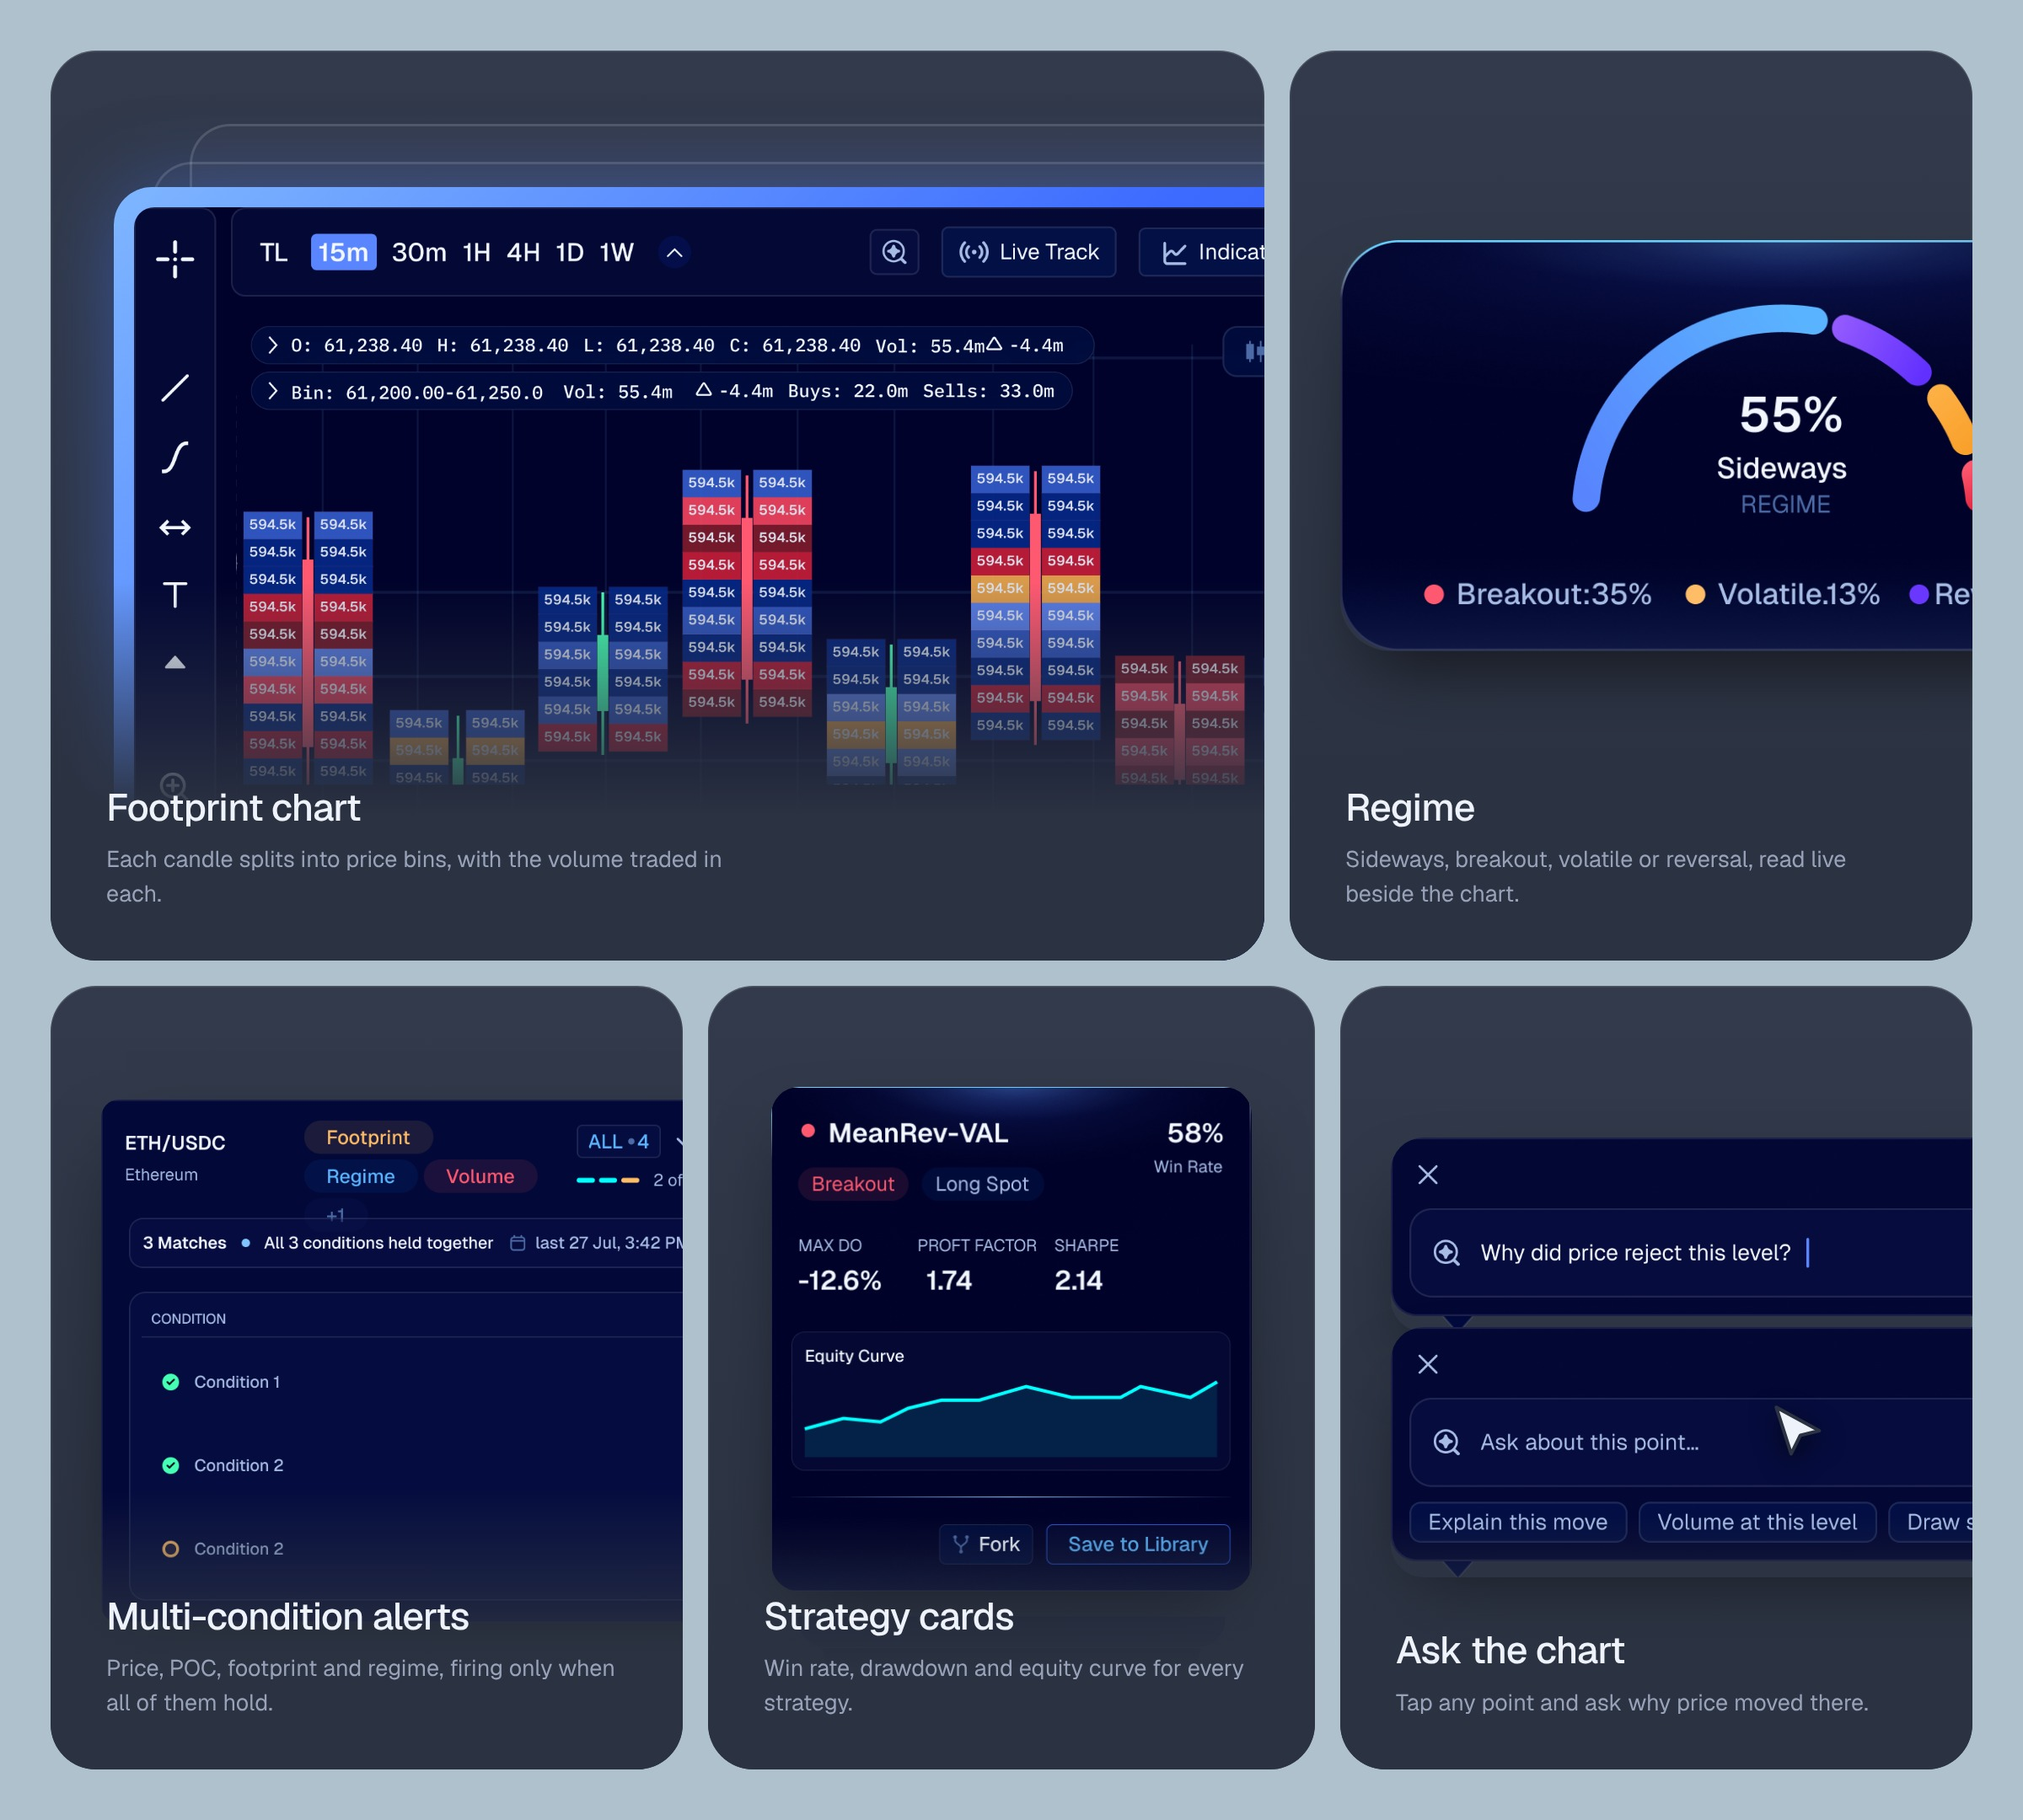
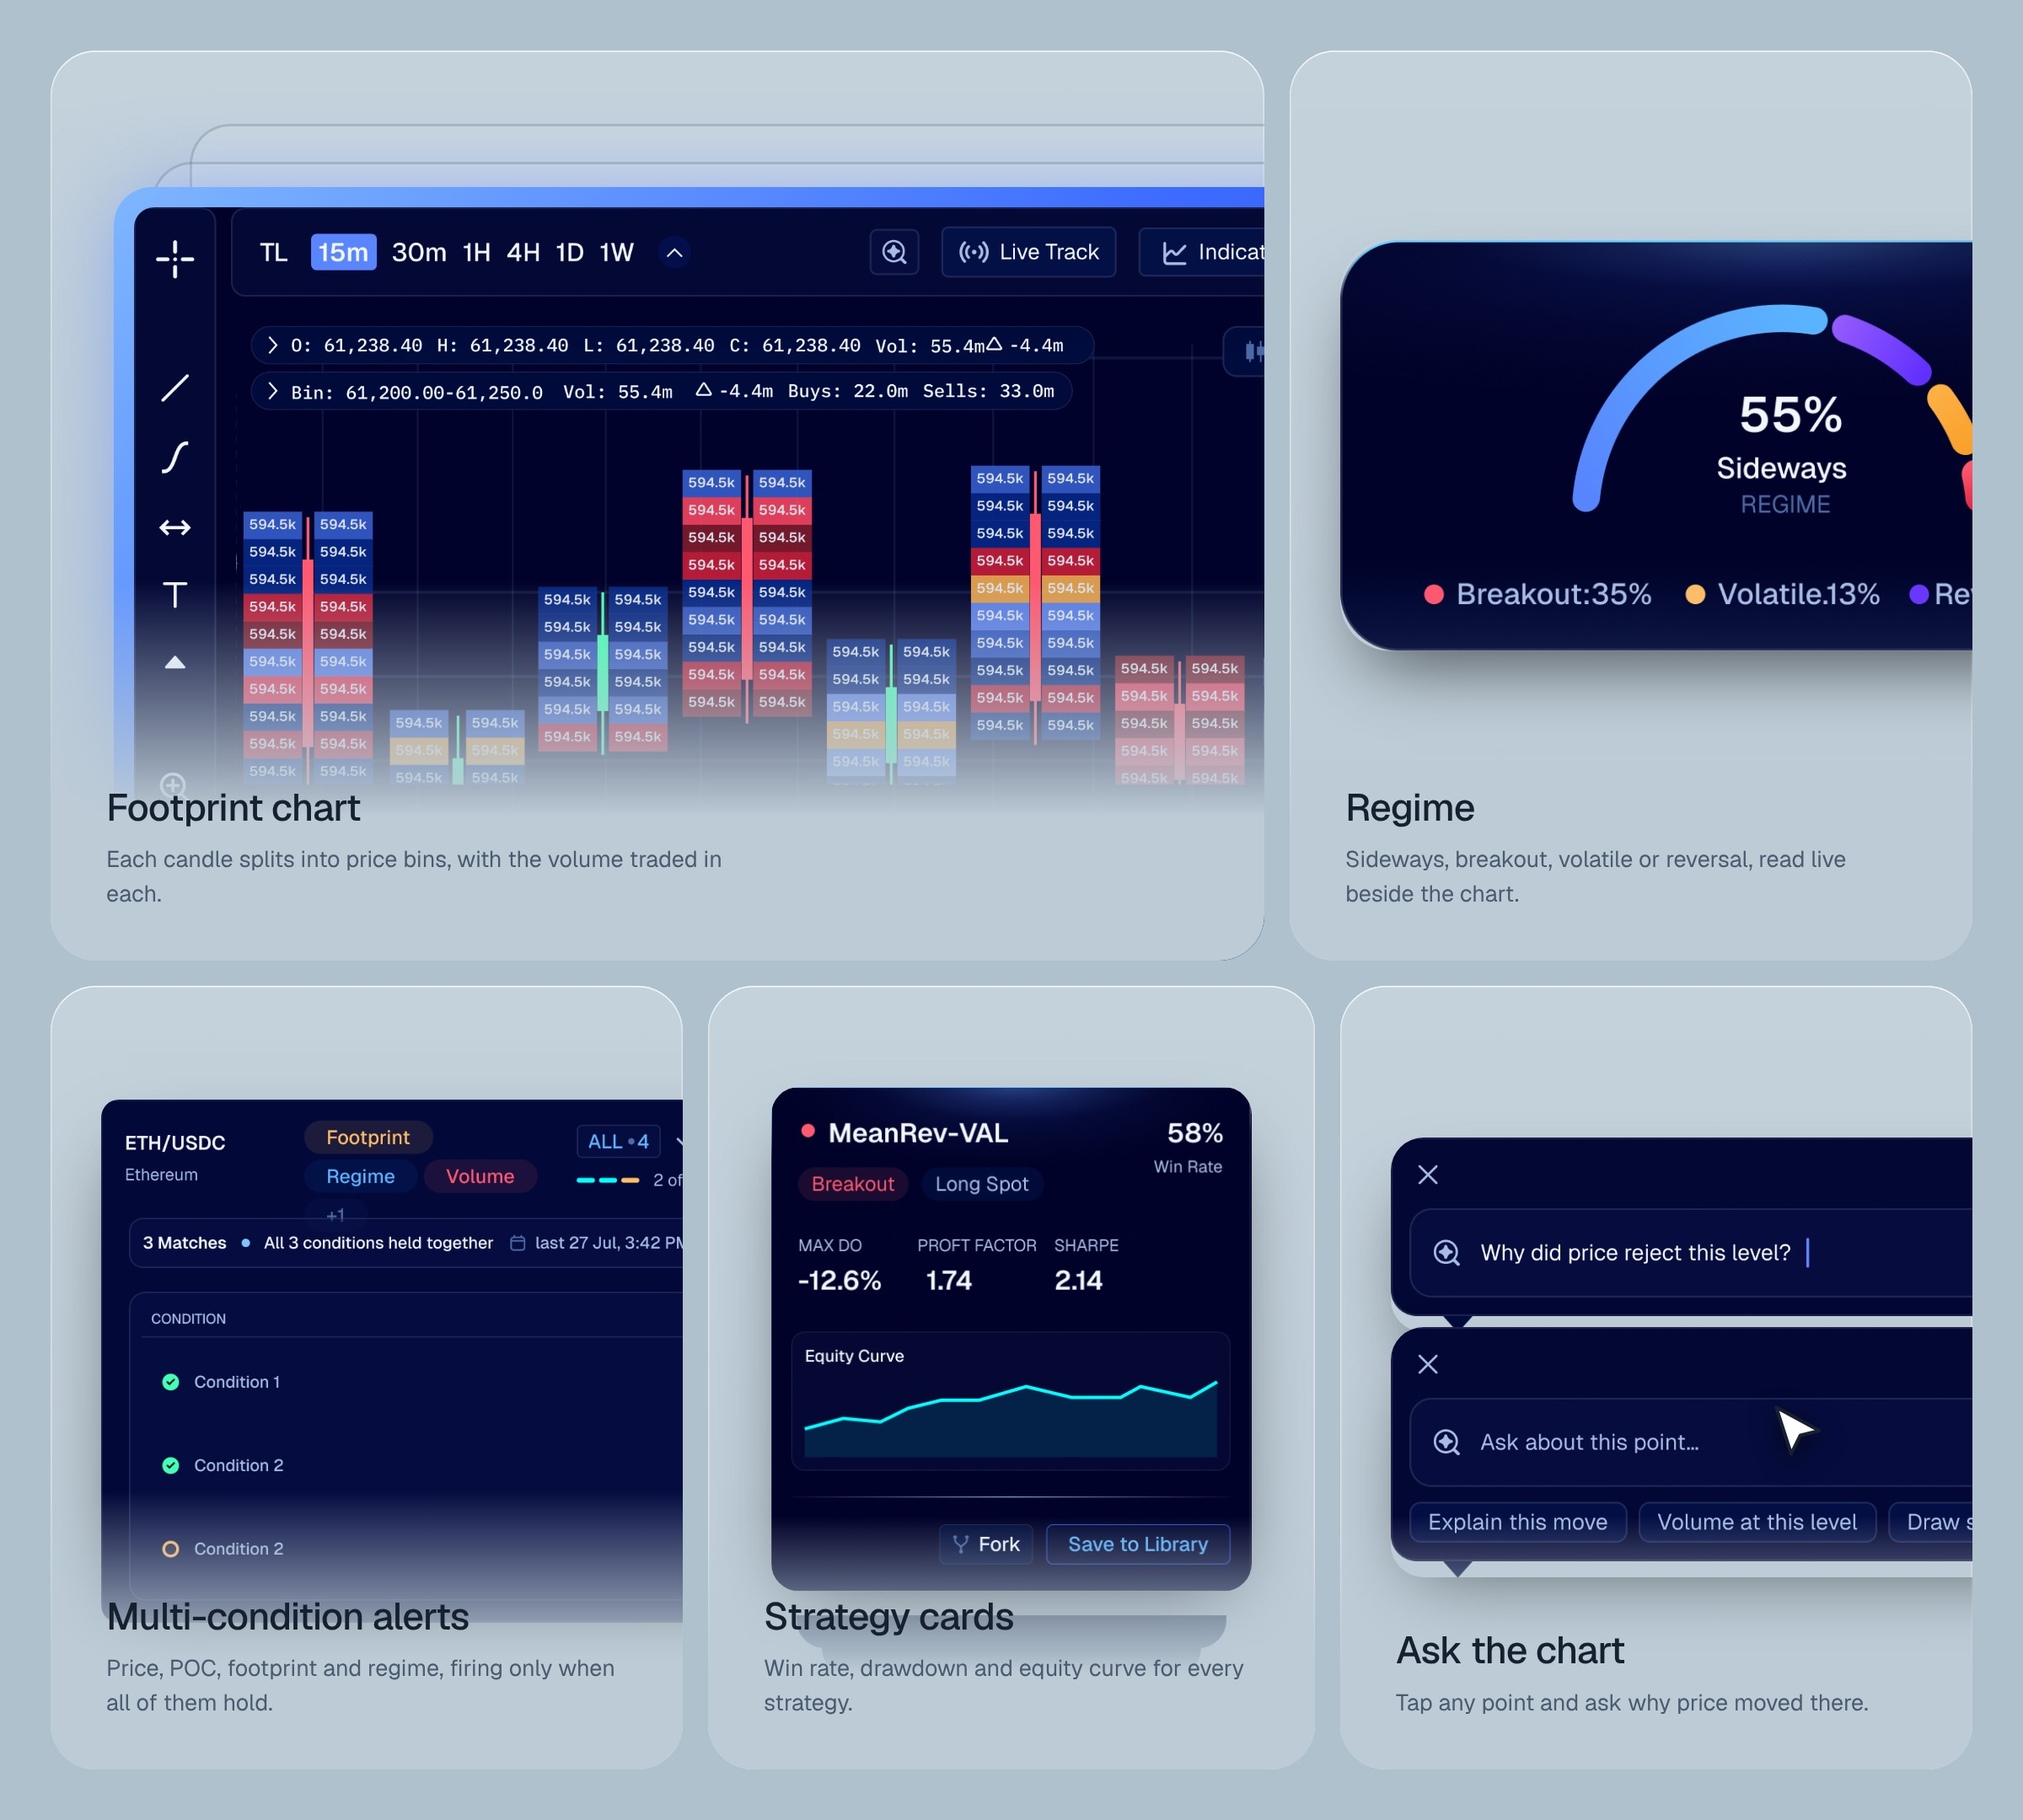
Jaadu bento: light bluish-grey cards with dark text
Claude-Session: https://claude.ai/code/session_01L48ecgvWMXiCwrAdC3aGTG

diff --git a/scripts/mockups/jaadu/bento.html b/scripts/mockups/jaadu/bento.html
@@ -4,19 +4,19 @@
 @font-face{font-family:Geist;font-weight:500;src:url(node_modules/@fontsource/geist/files/geist-latin-500-normal.woff2)}
 body{margin:0;background:#fff}
 .pg{position:relative;width:1600px;overflow:hidden;margin:0 0 60px;background:#B0C1CE;font-family:Geist,sans-serif}
-.t{position:absolute;overflow:hidden;border-radius:36px;background:linear-gradient(180deg,#323A4B,#2B3241);box-shadow:inset 0 0 0 1px rgba(255,255,255,.07),inset 0 1px 0 rgba(255,255,255,.08)}
+.t{position:absolute;overflow:hidden;border-radius:36px;background:linear-gradient(180deg,#C4D2DC,#BCCBD6);box-shadow:inset 0 0 0 1px rgba(255,255,255,.45),inset 0 1px 0 rgba(255,255,255,.7)}
 .t .cap{position:absolute;left:44px;right:44px;bottom:40px;z-index:4}
-.t .cap h3{margin:0;font:500 30px/1.15 Geist;color:#EEF2FA;letter-spacing:-.02em}
-.t .cap p{margin:10px 0 0;font:400 18px/1.5 Geist;color:#98A3BA;max-width:520px}
-.t .fade{position:absolute;left:0;right:0;bottom:0;z-index:3;background:linear-gradient(180deg,rgba(43,50,65,0),#2B3241 62%)}
+.t .cap h3{margin:0;font:500 30px/1.15 Geist;color:#16202F;letter-spacing:-.02em}
+.t .cap p{margin:10px 0 0;font:400 18px/1.5 Geist;color:#4B5A6E;max-width:520px}
+.t .fade{position:absolute;left:0;right:0;bottom:0;z-index:3;background:linear-gradient(180deg,rgba(188,203,214,0),#BCCBD6 62%)}
 .c{position:absolute;z-index:2;display:block;border-radius:18px;box-shadow:0 30px 60px -20px rgba(0,0,0,.6)}
 .glow{position:absolute;z-index:2;border-radius:30px;padding:16px;background:linear-gradient(135deg,#7FB6FF,#3D6BFF 40%,#2346C8);box-shadow:0 0 70px -10px rgba(70,120,255,.55)}
 .glow img{display:block;border-radius:16px}
-.ghost{position:absolute;z-index:1;border-radius:32px;border:2px solid rgba(255,255,255,.14);background:rgba(255,255,255,.02)}
+.ghost{position:absolute;z-index:1;border-radius:32px;border:2px solid rgba(22,32,47,.18);background:rgba(255,255,255,.12)}
 .wide .side{position:absolute;left:56px;top:0;bottom:0;width:440px;display:flex;flex-direction:column;justify-content:center}
-.wide .side h3{margin:0;font:500 44px/1.12 Geist;color:#EEF2FA;letter-spacing:-.025em}
-.wide .side p{margin:20px 0 0;font:400 20px/1.55 Geist;color:#98A3BA}
-.stackbar{position:absolute;z-index:1;border-radius:0 0 22px 22px;background:#1B2236;box-shadow:inset 0 0 0 1px rgba(255,255,255,.06)}
+.wide .side h3{margin:0;font:500 44px/1.12 Geist;color:#16202F;letter-spacing:-.025em}
+.wide .side p{margin:20px 0 0;font:400 20px/1.55 Geist;color:#4B5A6E}
+.stackbar{position:absolute;z-index:1;border-radius:0 0 22px 22px;background:#22304F;box-shadow:inset 0 0 0 1px rgba(255,255,255,.06)}
 </style>
 <div id="root"></div>
 <script>
@@ -24,7 +24,7 @@ const F='feat/'
 const P=(id,h,inner)=>`<div class="pg" id="${id}" style="height:${h}px">${inner}</div>`
 const T=(l,t,w,h,inner,title,body,fade=170)=>`<div class="t" style="left:${l}px;top:${t}px;width:${w}px;height:${h}px">${inner}<div class="fade" style="height:${fade}px"></div><div class="cap"><h3>${title}</h3><p>${body}</p></div></div>`
 const im=(n,w,l,t,r=18)=>`<img class="c" src="${F}${n}.png" style="left:${l}px;top:${t}px;width:${w}px;border-radius:${r}px">`
-const cursor=(l,t)=>`<svg style="position:absolute;left:${l}px;top:${t}px;z-index:3;filter:drop-shadow(0 6px 10px rgba(0,0,0,.5))" width="46" height="50" viewBox="0 0 20 22"><path d="M2 1.5l15 8.2-6.6 1.6-3.2 6.4z" fill="#EEF2FA" stroke="#2B3241" stroke-width="1.2" stroke-linejoin="round"/></svg>`
+const cursor=(l,t)=>`<svg style="position:absolute;left:${l}px;top:${t}px;z-index:3;filter:drop-shadow(0 6px 10px rgba(0,0,0,.5))" width="46" height="50" viewBox="0 0 20 22"><path d="M2 1.5l15 8.2-6.6 1.6-3.2 6.4z" fill="#FFFFFF" stroke="#16202F" stroke-width="1.2" stroke-linejoin="round"/></svg>`
 const S=[]
 // Page 1: footprint (stacked frames, glow) + regime, then alerts, strategy card, chart prompt
 S.push(P('p1',1440,
@@ -34,7 +34,7 @@ S.push(P('p1',1440,
    'Footprint chart','Each candle splits into price bins, with the volume traded in each.',300)+
  T(1020,40,540,720,im('c-regime',700,40,150,40),'Regime','Sideways, breakout, volatile or reversal, read live beside the chart.',230)+
  T(40,780,500,620,im('c-alert',1300,40,90,14),'Multi-condition alerts','Price, POC, footprint and regime, firing only when all of them hold.',220)+
- T(560,780,480,620,`<div class="stackbar" style="left:90px;top:520px;width:300px;height:26px"></div><div class="stackbar" style="left:70px;top:498px;width:340px;height:26px;background:#212A42"></div>`+im('card1',380,50,80,22),'Strategy cards','Win rate, drawdown and equity curve for every strategy.',200)+
+ T(560,780,480,620,`<div class="stackbar" style="left:90px;top:520px;width:300px;height:26px"></div><div class="stackbar" style="left:70px;top:498px;width:340px;height:26px;background:#2B3B60"></div>`+im('card1',380,50,80,22),'Strategy cards','Win rate, drawdown and equity curve for every strategy.',200)+
  T(1060,780,500,620,im('c-prompt-typing',560,40,120,26)+im('c-prompt-suggested',560,40,270,26)+cursor(340,330),'Ask the chart','Tap any point and ask why price moved there.',200)))
 // Page 2: wide Overnight Discoveries, then comparison + deja vu
 S.push(P('p2',1220,
